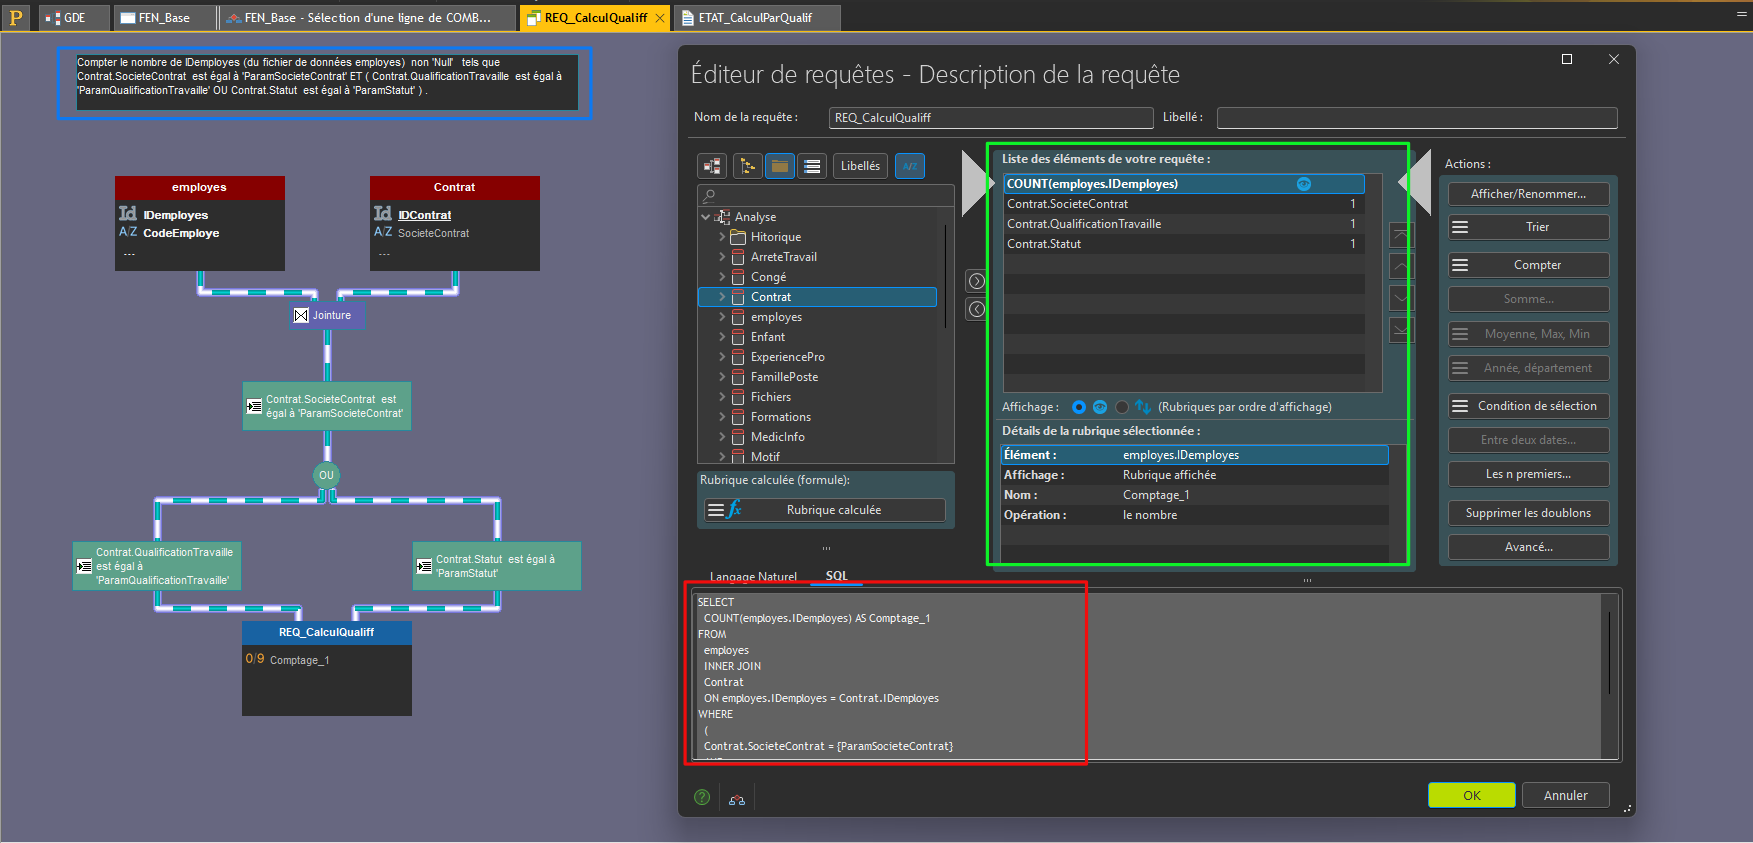
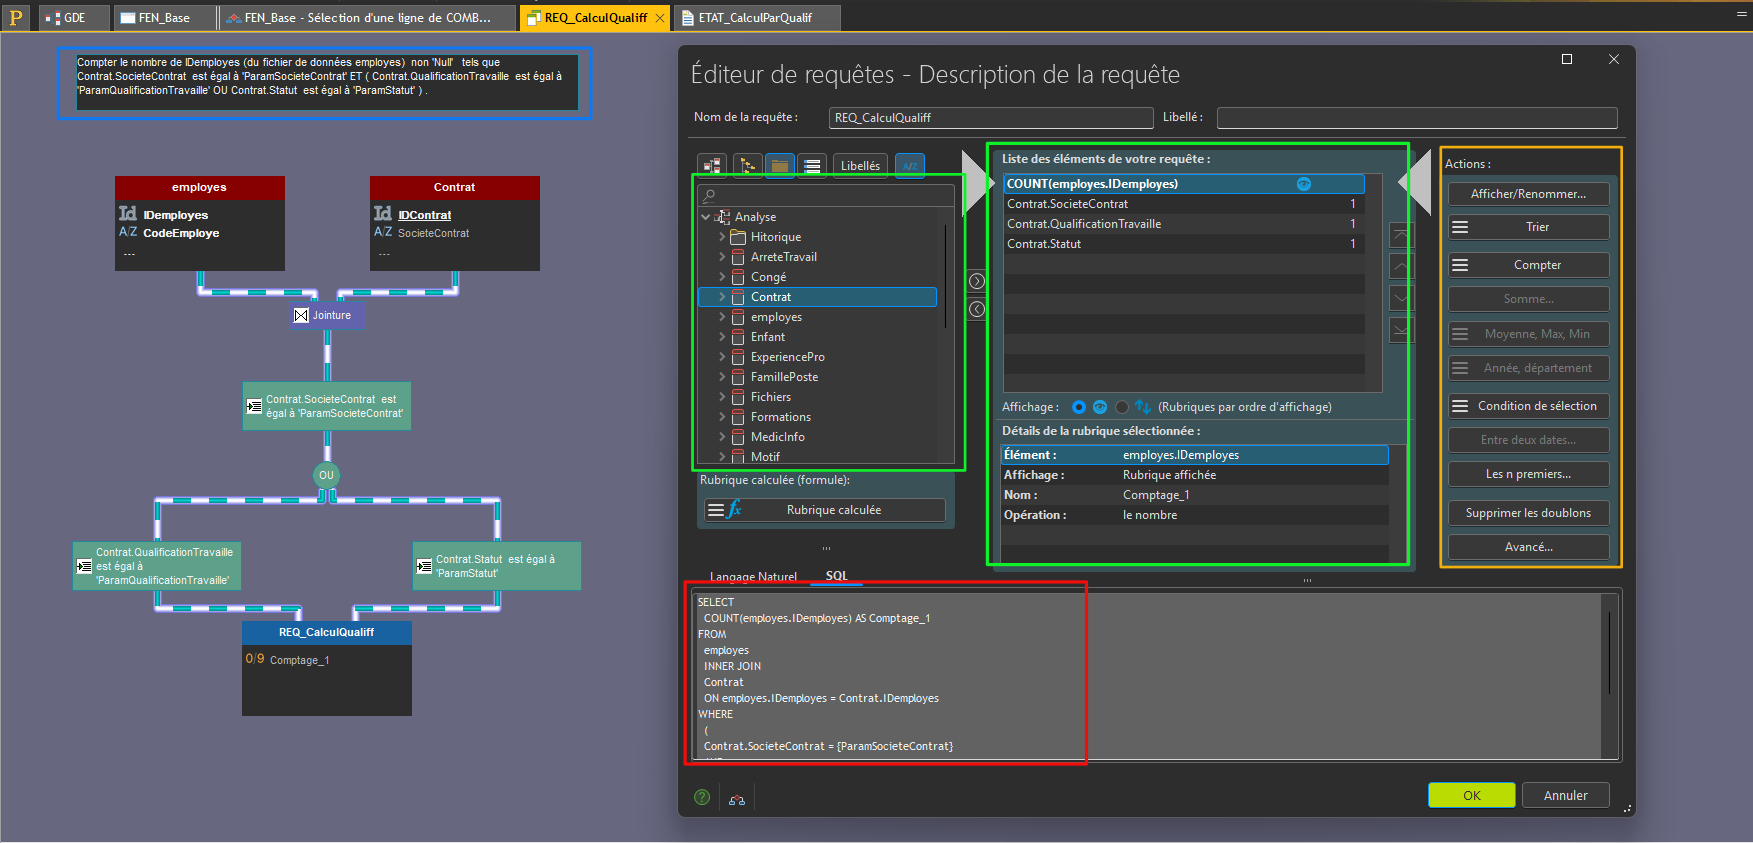
Update contact email in header, modify image, and enhance technique descriptions

diff --git a/technique.html b/technique.html
@@ -38,8 +38,7 @@
       <li><span class="sf sf-vert">Savoir organiser une interface de manière lisible et fonctionnelle</span></li>
       <li><span class="sf sf-orange">Savoir structurer une fenêtre en zones cohérentes</span></li>
       <li><span class="sf sf-rouge">Savoir intégrer différents composants graphiques dans une même interface</span></li>
-      <li><span class="sf sf-bleu">Savoir adapter une interface aux besoins utilisateurs</span></li>
-      <li>Savoir articuler navigation, affichage et actions dans une application</li>
+      <li><span class="sf sf-bleu">Savoir articuler navigation, affichage et actions dans une application</li>
     </ul>
 
     <div class="trace-layout">
@@ -52,17 +51,16 @@
       <div class="trace-content">
         <h3>Repères colorés sur la trace</h3>
         <ul class="sf-list">
-          <li><span class="sf sf-vert">Encadré vert</span> : structure générale de la fenêtre et répartition des grandes zones.</li>
+          <li><span class="sf sf-vert">Encadré vert</span> : Onglet de la fenêtre contenant toutes les informations de l'employé.</li>
           <li><span class="sf sf-orange">Encadré orange</span> : zone de saisie et d'affichage des informations principales.</li>
-          <li><span class="sf sf-rouge">Encadré rouge</span> : actions ou éléments interactifs importants pour l'utilisateur.</li>
-          <li><span class="sf sf-bleu">Encadré bleu</span> : zone de tableau ou d'affichage des données associées.</li>
+          <li><span class="sf sf-bleu">Encadré bleu</span> : zone de creation de windev permettant d'ajouter des champs au fenêtre.</li>
         </ul>
 
         <h3>Descriptif général de la trace</h3>
-        <p>Cette trace correspond à la fenêtre principale de l'application sur laquelle j'ai travaillé durant mon stage. Elle présente plusieurs zones fonctionnelles : un menu de navigation, une zone centrale de consultation et de modification, ainsi qu'un espace d'affichage de données complémentaires. Cette fenêtre occupe une place importante dans le projet car elle sert de point d'entrée pour l'utilisateur et regroupe plusieurs fonctionnalités essentielles.</p>
+        <p>Cette trace correspond à la fenêtre principale de l'application. Elle présente plusieurs zones fonctionnelles : un menu de navigation, une zone centrale de consultation et de modification, ainsi qu'un panneaux dockable, permettant de selectionner les employées. Cette fenêtre occupe une place importante dans le projet car elle sert de point d'entrée pour l'utilisateur et regroupe plusieurs fonctionnalités essentielles.</p>
 
         <h3>Descriptif des savoir-faire</h3>
-        <p>L'<span class="sf sf-vert">encadré vert</span> met en évidence l'organisation globale de la fenêtre. Il montre que j'ai su organiser une interface de manière lisible et fonctionnelle, en distinguant clairement les grandes zones de travail. L'<span class="sf sf-orange">encadré orange</span> correspond à la zone principale de saisie et d'affichage ; il illustre ma capacité à structurer une fenêtre en zones cohérentes et à intégrer plusieurs composants graphiques dans un même espace. L'<span class="sf sf-rouge">encadré rouge</span> met en avant les actions importantes proposées à l'utilisateur, ce qui montre que j'ai su articuler navigation, affichage et actions dans l'application. Enfin, l'<span class="sf sf-bleu">encadré bleu</span> souligne la présence d'une zone de données, ce qui traduit ma capacité à adapter l'interface aux besoins concrets de consultation et de gestion.</p>
+        <p>L'<span class="sf sf-vert">encadré vert</span> met en évidence l'organisation globale de la fenêtre. Il montre que j'ai su organiser une interface de manière lisible et fonctionnelle. L'<span class="sf sf-orange">encadré orange</span> correspond à la zone principale de saisie et d'affichage ; il illustre ma capacité à structurer une fenêtre en zones cohérentes et à intégrer plusieurs composants graphiques dans un même espace. Enfin, l'<span class="sf sf-bleu">encadré bleu</span> montre les different composant disponible à placer dans la fenêtre.</p>
       </div>
     </div>
   </section>
@@ -75,9 +73,7 @@
       <li><span class="sf sf-vert">Savoir lire et parcourir un fichier texte</span></li>
       <li><span class="sf sf-orange">Savoir exploiter une donnée lue dans un traitement métier</span></li>
       <li><span class="sf sf-bleu">Savoir écrire une structure conditionnelle complexe</span></li>
-      <li><span class="sf sf-rouge">Savoir manipuler des chaînes de caractères</span></li>
-      <li>Savoir affecter des valeurs en fonction de règles métier</li>
-      <li>Savoir développer un traitement robuste et compréhensible</li>
+      <li><span class="sf sf-rouge">Savoir développer un traitement robuste et compréhensible</span></li>
     </ul>
 
     <div class="trace-layout">
@@ -91,16 +87,19 @@
         <h3>Repères colorés sur la trace</h3>
         <ul class="sf-list">
           <li><span class="sf sf-vert">Encadré vert</span> : bloc principal de traitement et logique générale.</li>
-          <li><span class="sf sf-orange">Encadré orange</span> : structure conditionnelle importante.</li>
           <li><span class="sf sf-bleu">Encadré bleu</span> : extraction ou manipulation d'une donnée précise.</li>
-          <li><span class="sf sf-rouge">Encadré rouge</span> : point sensible de contrôle ou branche métier particulière.</li>
         </ul>
 
         <h3>Descriptif général de la trace</h3>
-        <p>Cette trace montre un extrait de code utilisé pour exploiter des informations lues dans un fichier et en déduire certaines valeurs métier, comme un pays ou une localisation. Le traitement repose sur plusieurs conditions, sur l'analyse de chaînes de caractères et sur l'affectation finale de valeurs utiles à l'application. Cette trace est représentative de mon travail de développement car elle combine lecture de données, logique métier et traitement conditionnel.</p>
+        <p>Cette trace montre un extrait de code utilisé pour exploiter des informations lues dans un fichier CSV et en déduire certaines valeurs métier, comme un 
+          pays ou une localisation. Le traitement repose sur plusieurs conditions, sur l'analyse de chaînes de caractères et sur l'affectation finale de valeurs utiles. 
+          Cette trace est représentative de mon travail de développement car elle combine lecture de données, logique métier et traitement conditionnel.
+          </p>
 
         <h3>Descriptif des savoir-faire</h3>
-        <p>L'<span class="sf sf-vert">encadré vert</span> met en évidence le bloc principal du traitement. Il montre que je sais développer un traitement structuré et compréhensible, en organisant les différentes étapes de manière logique. L'<span class="sf sf-orange">encadré orange</span> souligne une condition métier importante, ce qui illustre ma capacité à écrire une structure conditionnelle complexe pour distinguer plusieurs cas d'usage. L'<span class="sf sf-bleu">encadré bleu</span> met en avant une opération de manipulation de chaîne ou d'extraction de donnée ; cela montre que je sais exploiter une donnée lue dans un traitement métier et manipuler précisément son contenu. Enfin, l'<span class="sf sf-rouge">encadré rouge</span> signale un point de contrôle sensible, révélant ma capacité à appliquer des règles métier spécifiques de façon fiable.</p>
+        <p>L'<span class="sf sf-vert">encadré vert</span> met en évidence le bloc principal du traitement. 
+          Il montre que je sais développer un traitement structuré et compréhensible, en organisant les différentes étapes de manière logique. L'<span class="sf sf-bleu">encadré bleu</span> met en avant une 
+          opération de manipulation de chaîne ; cela montre que je sais exploiter une donnée lue dans un traitement métier et manipuler précisément son contenu. 
       </div>
     </div>
   </section>
@@ -112,9 +111,7 @@
     <ul class="sf-list">
       <li><span class="sf sf-vert">Savoir identifier les données utiles au fonctionnement d'une application</span></li>
       <li><span class="sf sf-orange">Savoir structurer des données de façon cohérente</span></li>
-      <li><span class="sf sf-bleu">Savoir relier les informations entre elles</span></li>
       <li><span class="sf sf-rouge">Savoir comprendre l'organisation des données dans un environnement existant</span></li>
-      <li>Savoir exploiter une structure de données au service de l'application</li>
     </ul>
 
     <div class="trace-layout">
@@ -127,17 +124,18 @@
       <div class="trace-content">
         <h3>Repères colorés sur la trace</h3>
         <ul class="sf-list">
-          <li><span class="sf sf-vert">Encadré vert</span> : ensemble principal représentant la structure globale des données.</li>
-          <li><span class="sf sf-orange">Encadré orange</span> : élément ou groupe de données central dans l'application.</li>
-          <li><span class="sf sf-bleu">Encadré bleu</span> : relation, champ ou information exploitée dans un traitement.</li>
-          <li><span class="sf sf-rouge">Encadré rouge</span> : contrainte ou point critique de cohérence des données.</li>
+          <li><span class="sf sf-orange">Encadré orange</span> : Table Principale de l'application, La Fiche de Données "Employé" represente le centre de l'analyse(base de données).</li>
+          <li><span class="sf sf-bleu">Encadré bleu</span> : Utilisation des Different Type de donnes Pour les rubriques(element d'une table) afin d'optimiser la memoire utilisé par l'appliacation.</li>
         </ul>
 
         <h3>Descriptif général de la trace</h3>
-        <p>Cette trace correspond à la partie base de données utilisée dans le projet. Elle illustre la manière dont les informations manipulées par l'application sont organisées, stockées et reliées entre elles. La base de données occupe une place centrale dans le fonctionnement global du projet, car elle permet de conserver et retrouver les informations nécessaires aux différentes fonctionnalités.</p>
+        <p>Cette trace correspond à la partie base de données utilisée dans le projet. Elle illustre la manière dont les informations manipulées par l'application sont organisées, stockées et reliées entre elles. 
+          La base de données occupe une place centrale dans le fonctionnement global d'un projet WinDev, car elle permet de conserver et retrouver les informations nécessaires aux différentes fonctionnalités.</p>
 
         <h3>Descriptif des savoir-faire</h3>
-        <p>L'<span class="sf sf-vert">encadré vert</span> permet d'identifier la structure générale des données, ce qui montre ma capacité à comprendre l'organisation d'ensemble d'une base exploitée dans un projet existant. L'<span class="sf sf-orange">encadré orange</span> met en avant une zone centrale de la structure, illustrant mon aptitude à identifier les données utiles au fonctionnement de l'application. L'<span class="sf sf-bleu">encadré bleu</span> souligne une information ou une relation exploitée dans un traitement, ce qui montre que je sais relier les informations entre elles et les utiliser de façon cohérente. Enfin, l'<span class="sf sf-rouge">encadré rouge</span> attire l'attention sur un point critique de cohérence, révélant ma compréhension des contraintes importantes liées aux données.</p>
+          L'<span class="sf sf-orange">encadré orange</span> met en avant la fiche de données principale de l'application, illustrant mon aptitude à identifier les données utiles au fonctionnement de l'application. 
+          L'<span class="sf sf-bleu">encadré bleu</span> Different logo des type de rubrique comme les ID, date, texte, numerique et booleen. 
+        </p>
       </div>
     </div>
   </section>
@@ -147,11 +145,9 @@
 
     <h3>Savoir-faire élémentaires</h3>
     <ul class="sf-list">
-      <li><span class="sf sf-vert">Savoir écrire une requête SQL adaptée à un besoin</span></li>
-      <li><span class="sf sf-orange">Savoir sélectionner les données pertinentes</span></li>
+      <li><span class="sf sf-vert">Savoir exploiter les résultats d'une requête dans un traitement ou un affichage</span></li>
       <li><span class="sf sf-bleu">Savoir filtrer des résultats selon des critères</span></li>
       <li><span class="sf sf-rouge">Savoir intégrer une requête dans une application</span></li>
-      <li>Savoir exploiter les résultats d'une requête dans un traitement ou un affichage</li>
     </ul>
 
     <div class="trace-layout">
@@ -164,17 +160,21 @@
       <div class="trace-content">
         <h3>Repères colorés sur la trace</h3>
         <ul class="sf-list">
-          <li><span class="sf sf-vert">Encadré vert</span> : structure générale de la requête.</li>
-          <li><span class="sf sf-orange">Encadré orange</span> : clause de filtrage ou de jointure importante.</li>
-          <li><span class="sf sf-bleu">Encadré bleu</span> : champ ou donnée récupérée pour le traitement.</li>
-          <li><span class="sf sf-rouge">Encadré rouge</span> : condition déterminante pour obtenir le bon résultat.</li>
+          <li><span class="sf sf-vert">Encadré vert</span> : structure générale de la requête. A gauche la selection des rubrique triée par leurs fiche de données, A droite, les rubrique selectionnée dans la requete</li>
+          <li><span class="sf sf-orange">Encadré orange</span> : Traitement possible sur les rubrique sélectionnées dans la requete.</li>
+          <li><span class="sf sf-bleu">Encadré bleu</span> : Contenu de la requête ecrit en langage courant (en francais)</li>
+          <li><span class="sf sf-rouge">Encadré rouge</span> : Requete affiché en langage SQL.</li>
         </ul>
 
         <h3>Descriptif général de la trace</h3>
-        <p>Cette trace correspond à une requête SQL utilisée dans l'application pour récupérer des informations précises à partir de la base de données. Elle s'inscrit dans le fonctionnement quotidien du projet, car elle permet d'afficher, filtrer ou manipuler des données selon le besoin de l'utilisateur ou du traitement métier.</p>
+        <p>Cette trace correspond à une requête SQL utilisée dans l'application pour récupérer des informations précises à partir de la base de données. 
+          Elle s'inscrit dans le fonctionnement des Etat (editeur de pdf) de l'appliaction, elle permet de modifier dynamiquement le contenu des documents.</p>
 
         <h3>Descriptif des savoir-faire</h3>
-        <p>L'<span class="sf sf-vert">encadré vert</span> met en avant la structure d'ensemble de la requête, ce qui montre ma capacité à écrire une requête SQL adaptée à un besoin concret. L'<span class="sf sf-orange">encadré orange</span> souligne une clause importante de filtrage ou de jointure, illustrant mon aptitude à sélectionner les bonnes données selon un critère précis. L'<span class="sf sf-bleu">encadré bleu</span> correspond à un champ exploité dans le résultat, ce qui montre que je sais récupérer et utiliser des informations pertinentes. Enfin, l'<span class="sf sf-rouge">encadré rouge</span> attire l'attention sur une condition essentielle de la requête, démontrant ma capacité à construire une logique de sélection fiable.</p>
+        <p>L'<span class="sf sf-vert">encadré vert</span> met en avant la structure d'ensemble de la requête, ce qui montre ma capacité à écrire une requête SQL adaptée à un besoin concret. 
+          L'<span class="sf sf-orange">encadré orange</span> souligne le bon traitement des données, illustrant mon aptitude à sélectionner les bonnes données selon un traitement précis. 
+          L'<span class="sf sf-bleu">encadré bleu</span> correspond a ce que fait la requete dans un langage plus courant permettant de comprendre plus rapidement son contenu. 
+          Enfin, l'<span class="sf sf-rouge">encadré rouge</span> Mont que malgré l'assistant qui fait une bonne partie du travaill, on peut tout de meme verifier son fonctionnement.</p>
       </div>
     </div>
   </section>

diff --git a/header.html b/header.html
@@ -32,7 +32,7 @@
 <body>
   <header>
     <h1>Ethan Rietz - Portfolio BUT 2</h1>
-    <div class="contact">Contact : <a href="mailto:adresse.mail@exemple.fr">adresse.mail@exemple.fr</a></div>
+    <div class="contact">Contact : <a href="mailto:adresse.mail@exemple.fr">ethan.rietz@edu.univ-fcomte.fr </a></div>
   </header>
 </body>
 </html>
